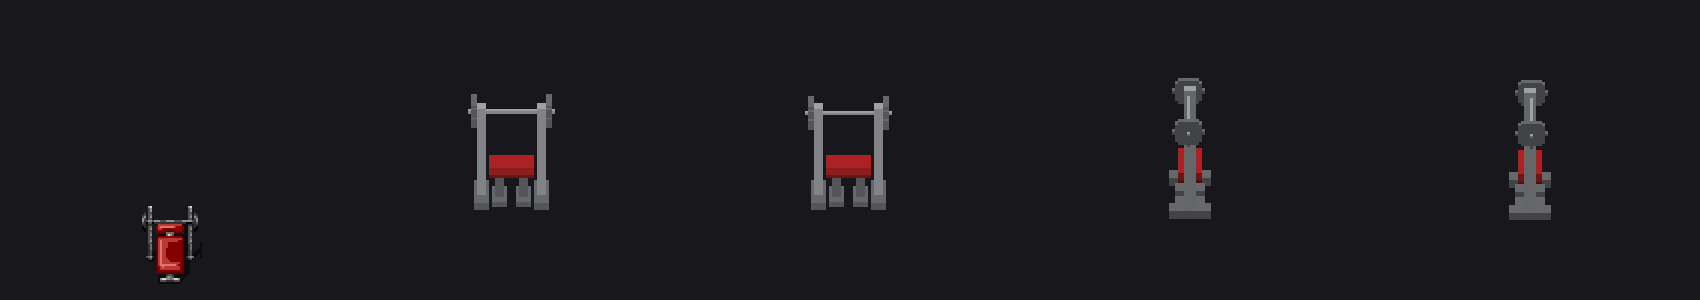
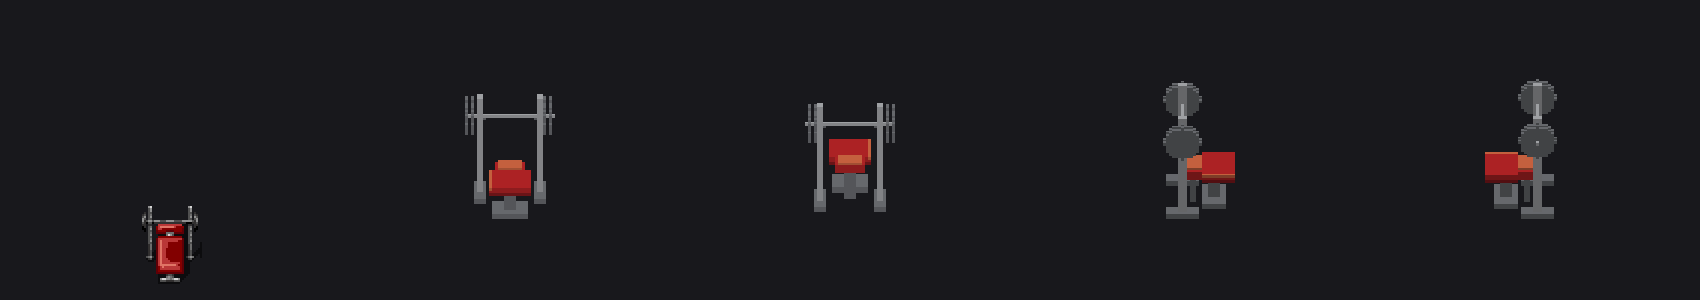
Bench press redone from the sprite pixel map: bench runs toward the viewer on a pedestal, rack behind with plates outside the uprights

diff --git a/crates/voxelizer/src/props.rs b/crates/voxelizer/src/props.rs
@@ -4545,39 +4545,56 @@ fn d3_ergometer() -> PropModel {
     m
 }
 
-/// Bench press station: two uprights, a barbell,
-/// and the red bench between them.
+/// Bench press station, read from the sprite's
+/// pixel map: the bench runs TOWARD the viewer on a
+/// central pedestal (pad face foreshortened, raised
+/// head section at the far end), and the rack stands
+/// behind it -- two uprights rising past the bar,
+/// plates hanging on the bar just outside them.
 fn d3_exercise_bench() -> PropModel {
     let mut m = PropModel::new([32, 39, 32]);
     let steel = rgb(158, 160, 163);
     let steel_dk = rgb(102, 104, 108);
     let red = rgb(172, 34, 36);
     let red_dk = rgb(128, 24, 28);
+    let red_lt = rgb(196, 96, 62);
+    // Rack uprights at the back, rising past the bar.
     for x in [5u32, 25] {
-        box_fill(&mut m, x, x + 2, 0, 36, 14, 17, steel);
-        box_fill(&mut m, x - 1, x + 3, 0, 2, 9, 22, steel_dk);
+        box_fill(&mut m, x, x + 1, 0, 38, 12, 14, steel);
+        box_fill(&mut m, x - 1, x + 2, 0, 1, 8, 18, steel_dk);
     }
-    // Barbell: bar + plate discs at both ends.
-    tube_x(&mut m, 2, 30, 34, 15, 0.9, steel);
-    for xc in [3i32, 28] {
-        for dy in -5i32..=5 {
-            for dz in -5i32..=5 {
+    // Bar at y 31, resting in hooks below the tops.
+    tube_x(&mut m, 1, 30, 31, 13, 0.9, steel);
+    for x in [7u32, 24] {
+        m.set(x, 30, 13, Some(steel_dk));
+    }
+    // Plates: pairs of discs just outside the
+    // uprights, centered on the bar.
+    for xc in [1i32, 3, 27, 29] {
+        for dy in -6i32..=6 {
+            for dz in -6i32..=6 {
                 let d = ((dy * dy + dz * dz) as f32).sqrt();
-                if d <= 5.0 {
-                    for x in xc..=xc + 1 {
-                        m.set(x as u32, (34 + dy) as u32, (15 + dz) as u32, Some(steel_dk));
-                    }
+                if d <= 6.0 {
+                    m.set(xc as u32, (31 + dy) as u32, (13 + dz) as u32, Some(steel_dk));
                 }
             }
         }
     }
-    // Bench: pad on a leg frame.
-    box_fill(&mut m, 9, 23, 11, 14, 12, 19, red);
-    box_fill(&mut m, 9, 23, 11, 11, 12, 19, red_dk);
-    for x in [11u32, 19] {
-        box_fill(&mut m, x, x + 2, 0, 11, 14, 17, steel_dk);
-        box_fill(&mut m, x - 1, x + 3, 0, 1, 11, 20, steel_dk);
+    // Bench pad along z on a central pedestal: the
+    // wide near end, a narrower raised head section
+    // at the far end by the rack.
+    box_fill(&mut m, 9, 22, 11, 13, 20, 30, red);
+    box_fill(&mut m, 9, 22, 11, 11, 20, 30, red_dk);
+    box_fill(&mut m, 11, 20, 11, 13, 15, 20, red);
+    box_fill(&mut m, 12, 19, 14, 14, 15, 19, red_lt);
+    // The pad's lit left edge (the sprite's stripe).
+    for z in 20..=30u32 {
+        m.set(9, 13, z, Some(red_lt));
     }
+    // Pedestal column and T foot; far support leg.
+    box_fill(&mut m, 14, 17, 2, 11, 22, 25, steel_dk);
+    box_fill(&mut m, 10, 21, 0, 1, 20, 27, steel_dk);
+    box_fill(&mut m, 14, 17, 0, 11, 16, 17, steel_dk);
     m
 }
 
